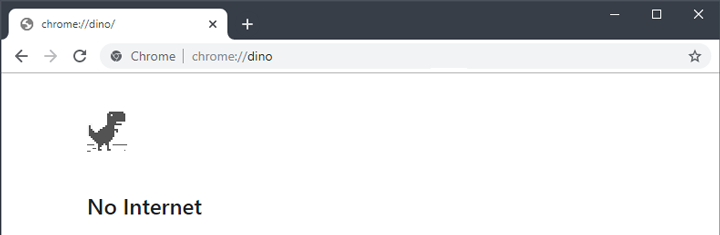
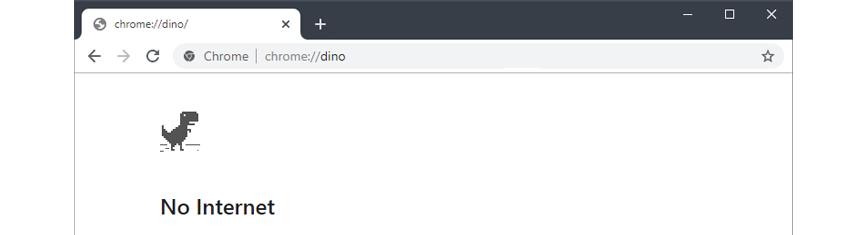
Added Fritzing wiring diagram, as well as updated width of dino.png.

diff --git a/README.md b/README.md
@@ -10,7 +10,7 @@ A recreation of the famous Dino game that appears when you access chrome without
 - A button to jump with
 - A potentiometer to activate dark mode
 
-[put fritz diagram here.]
+![Wiring diagram for the set up.](/images/sketch.png)
 
 ## Requirements
 A finger to click the button with. My condolences to those without fingers.
